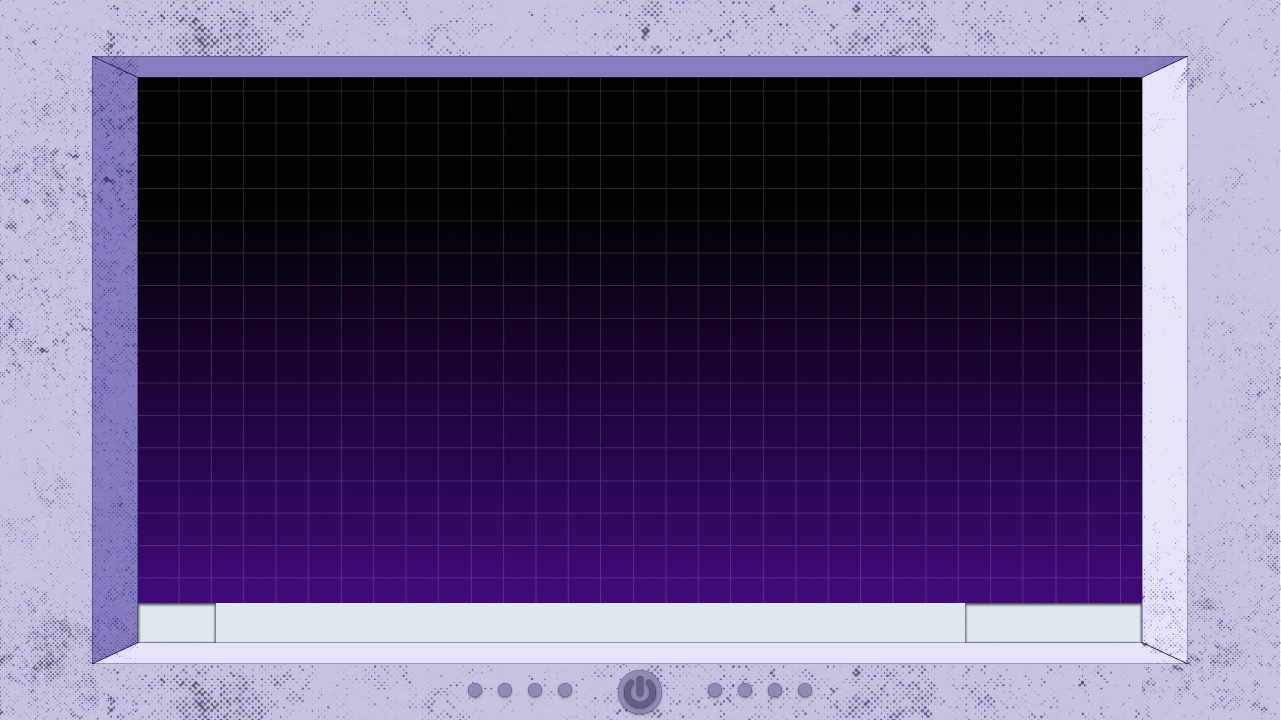
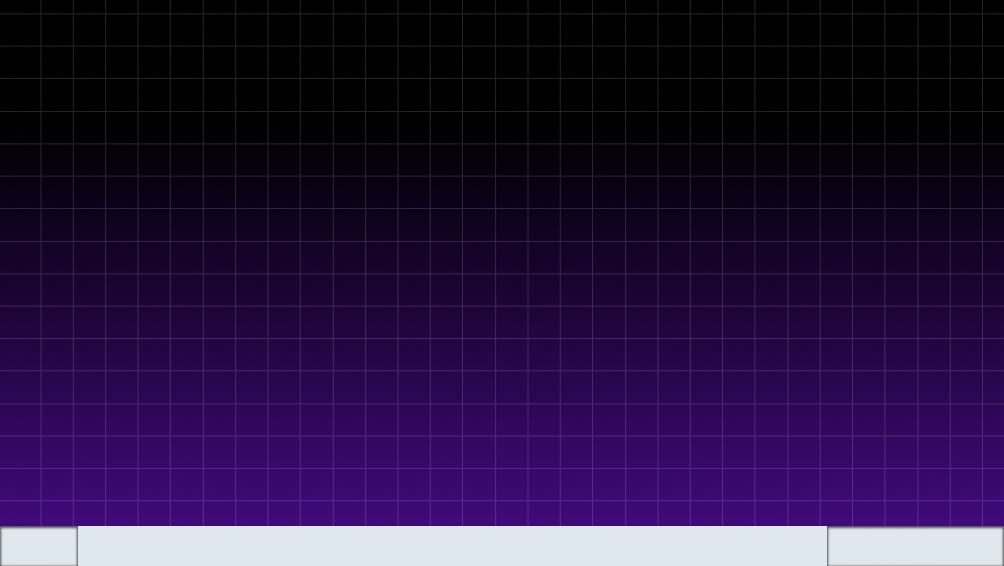
fix: ajuste na animação de ligar pc e na disposição de 'lixeira' e 'pasta'

diff --git a/scripts/TelaInicial.cs b/scripts/TelaInicial.cs
@@ -3,13 +3,14 @@ using System;
 
 public partial class TelaInicial : Control
 {
-	private VideoStreamPlayer vsp;
+	private AnimationPlayer turnON;
 	
 	// Called when the node enters the scene tree for the first time.
 	public override void _Ready()
 	{
-		vsp =GetNode<VideoStreamPlayer>("VideoStreamPlayer");
-		vsp.Finished += _on_video_stream_player_finished;
+		turnON = GetNode<AnimationPlayer>("turnOnPC");
+		
+		
 	}
 
 	// Called every frame. 'delta' is the elapsed time since the previous frame.
@@ -17,11 +18,11 @@ public partial class TelaInicial : Control
 	{
 	}
 	public void _on_button_pressed(){
-		vsp.Play();
+		turnON.Play("turnOnPC");
 		
 	}
 	
-	public void _on_video_stream_player_finished(){
+	public void ligarPC(){
 		GetTree().ChangeSceneToFile("res://scenes/root.tscn");
 	}
 }

diff --git a/scripts/InitialScreen.cs b/scripts/InitialScreen.cs
@@ -21,11 +21,16 @@ public partial class InitialScreen : Control
 
 	public override void _Input(InputEvent @event)
 	{
-		if (waitingInput && @event.IsActionPressed("ui_accept"))
+		if (waitingInput && @event.IsActionPressed("aceitar"))
 		{
 			waitingInput = false;
 			
 			switcher.Play(); 
 		}
 	}
+	
+	public void changeToGame(){
+		GetTree().ChangeSceneToFile("res://scenes/TelaInicial.tscn");
+	}
+	
 }
